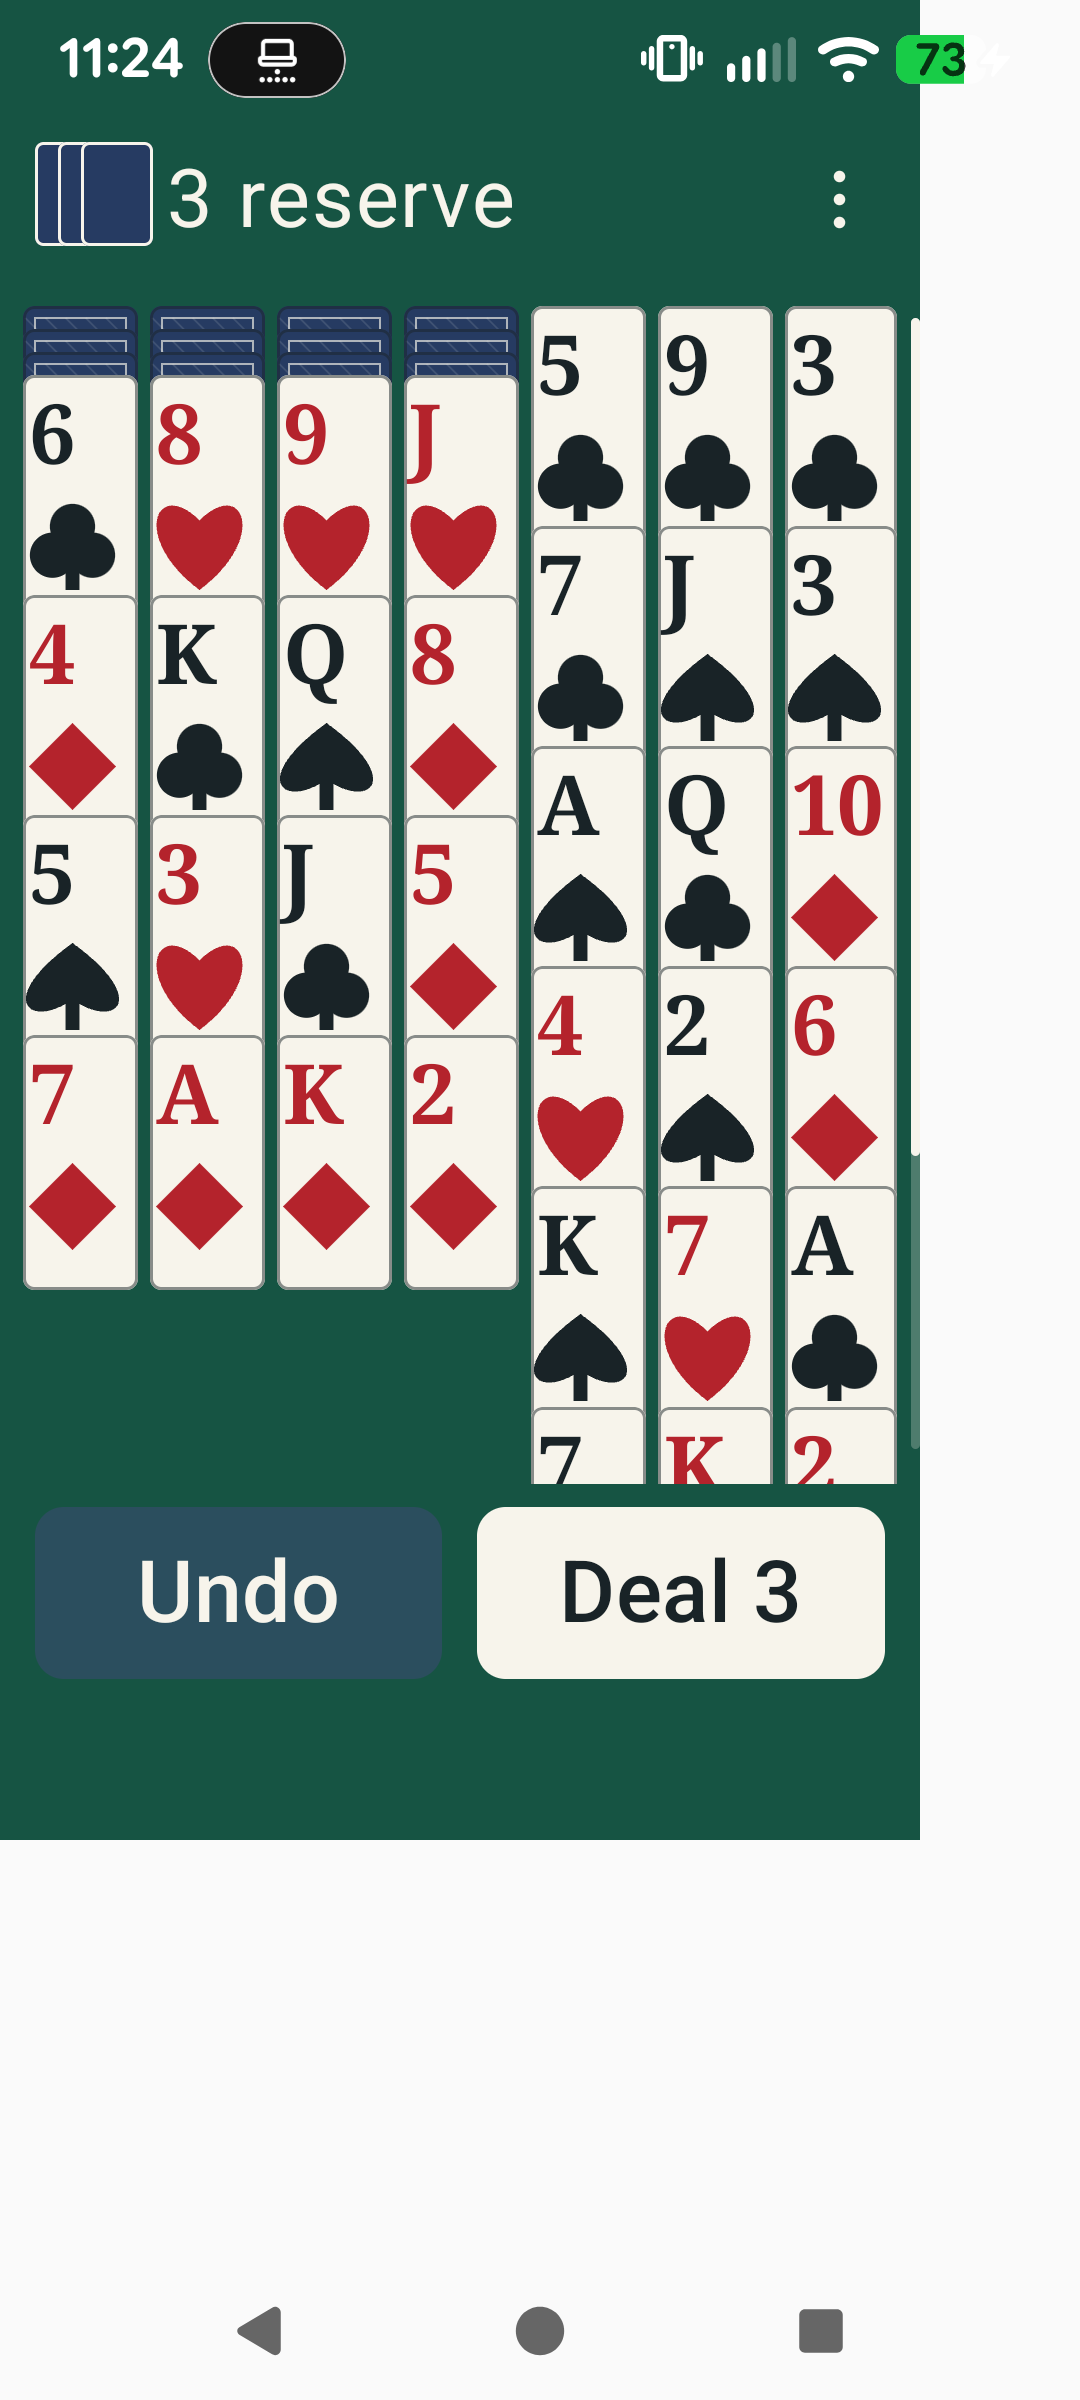
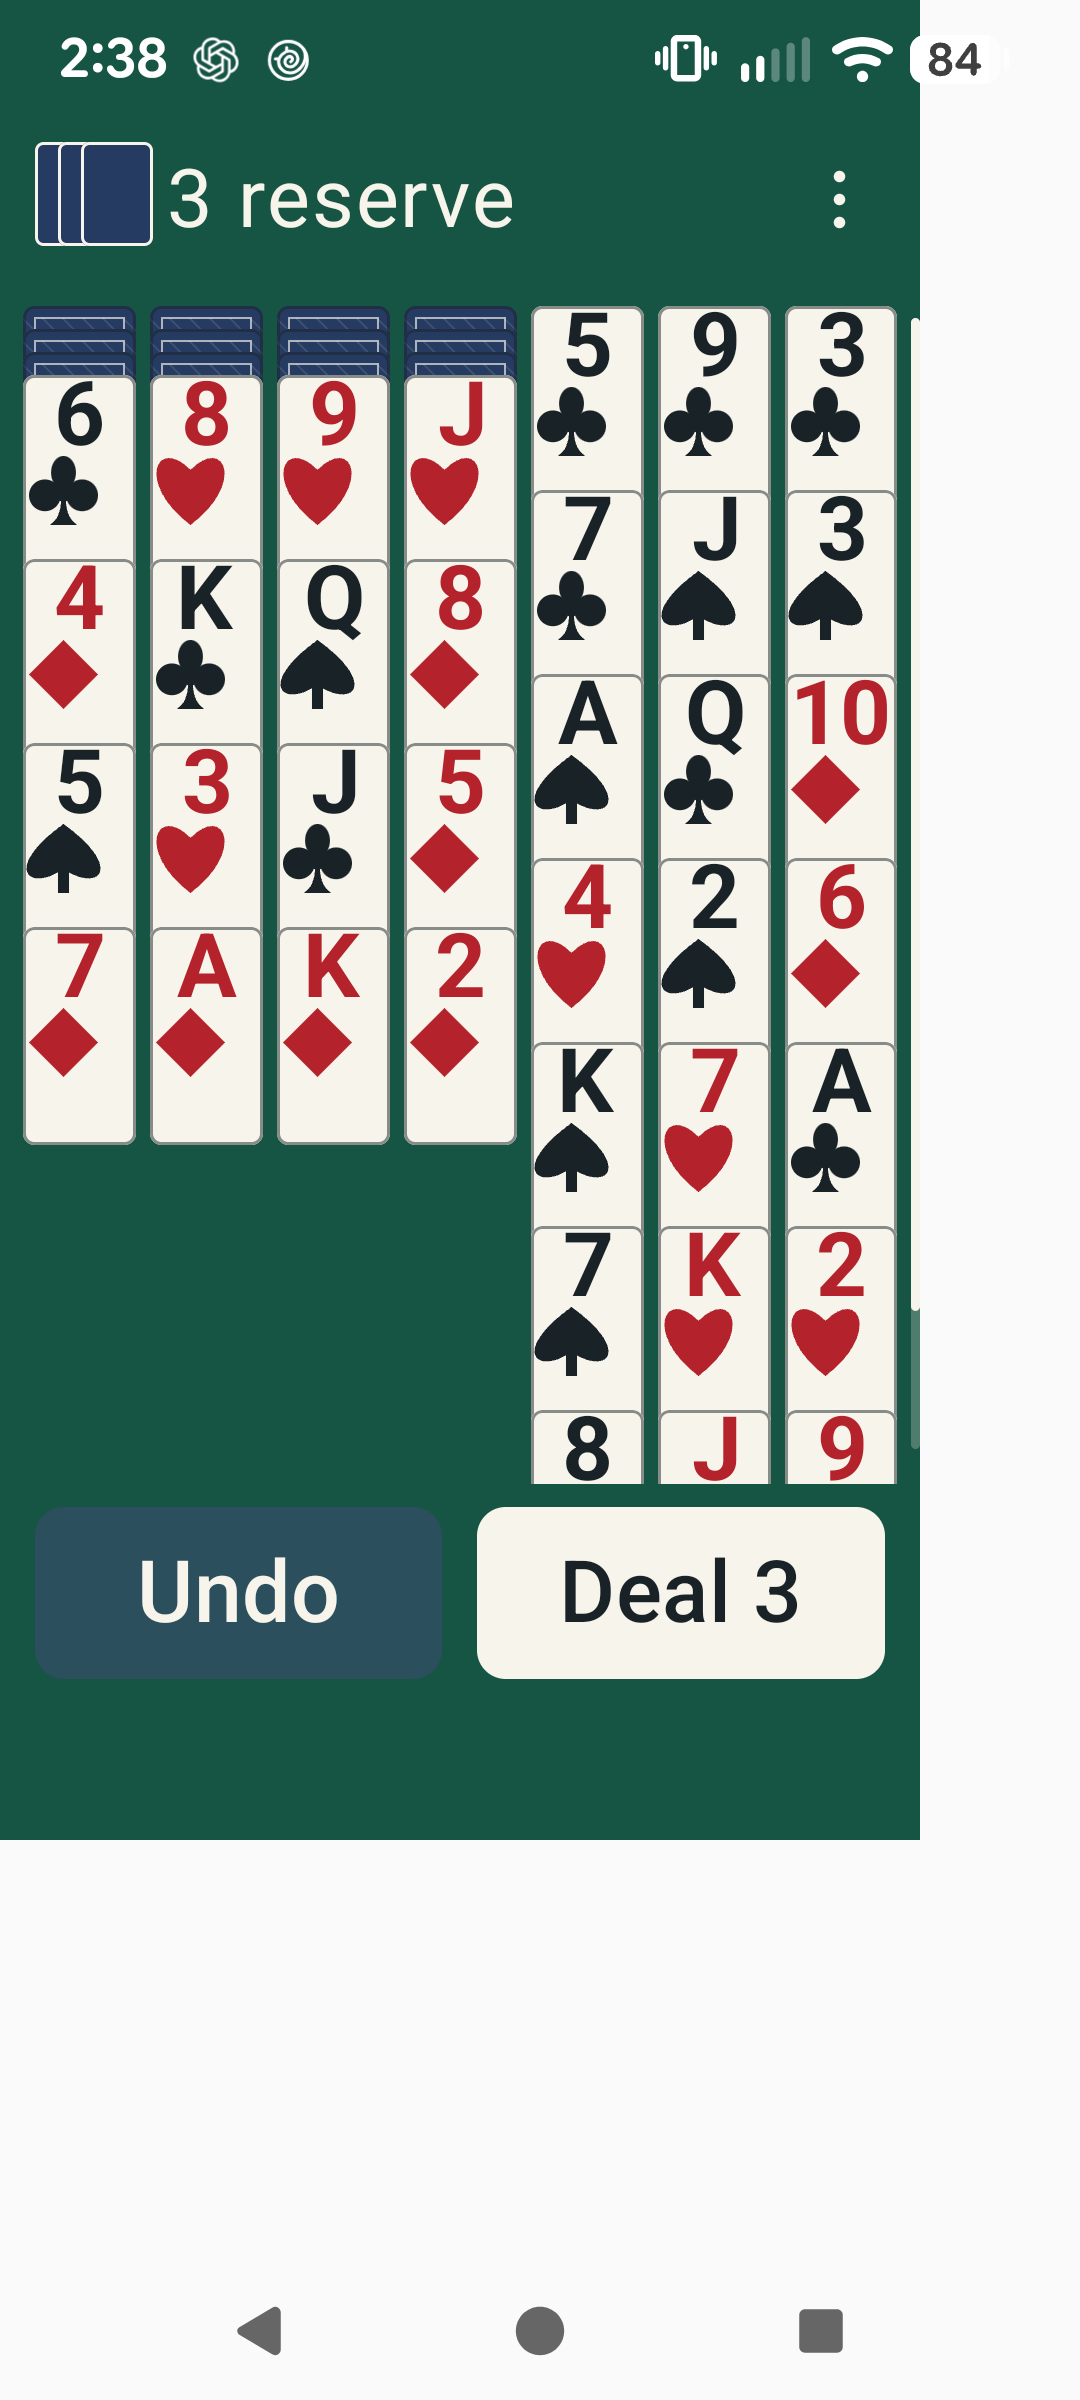
Record verified inverted cards, centered ranks and fresh device evidence

diff --git a/docs/phase4d-interface.md b/docs/phase4d-interface.md
@@ -57,16 +57,16 @@ Normal selection, illegal-tap cancellation and success feedback have a polite li
 
 ## Verified implementation and test results
 
-Application/test code head **`b34eb2cb985c1e5c8b1403ecdac033025c1bd69c`** passed [CI run 41331064722](https://github.com/FoxyLight/Wasp-Solitaire/actions/runs/41331064722):
+Application/test code head **`dd7f98c2a74fe02a1abdf74b940d1d5e96fe8719`** compiled and passed JVM validation in [CI run 41347628565](https://github.com/FoxyLight/Wasp-Solitaire/actions/runs/41347628565):
 
 | Check | Actual result and evidence |
 | --- | --- |
-| [verify](https://github.com/FoxyLight/Wasp-Solitaire/actions/runs/41331064722/job/124921076469) | Android application/test APKs compiled; downloaded JUnit XML: **41 tests, zero failures/errors/skips** (17 pure engine, 24 application JVM). |
-| [emulator](https://github.com/FoxyLight/Wasp-Solitaire/actions/runs/41331064722/job/124921467375) | Android 15 / API 35, x86_64 AVD `test`, system animations disabled: **23 tests, zero failures/errors/skips**, 57.009 seconds in downloaded JUnit XML. |
-| Pixel 7a instrumentation | Installed the matched app/test APK pair from that verify artifact. Android 17 / API 37, physical 1080×2400px, density override 460, default font scale 1.3: **OK (23 tests)** in **71.236 seconds**. Actual rotation and recreation included. |
-| Owner-assisted TalkBack | On the same Pixel with build `270f09689faa4ec7f8044e062aea1c4832aa0988`, the owner confirmed all four checks worked and announcements were clear: card identity/column/tail count, legal movement, illegal-tap cancellation without movement, and Undo. The agent observed service binding/focus but does not claim to have heard the speaker. Subsequent changes prevent stale cancellation notices and enlarge/reposition visual indices and compact spacing; labels and action semantics are unchanged. The full custom-action/keyboard suite passed again on the corner-index refinement; the owner speech check was not repeated. |
+| [verify](https://github.com/FoxyLight/Wasp-Solitaire/actions/runs/41347628565/job/124970750024) | Android application/test APKs compiled; downloaded JUnit XML: **41 tests, zero failures/errors/skips** (17 pure engine, 24 application JVM). |
+| [emulator](https://github.com/FoxyLight/Wasp-Solitaire/actions/runs/41347628565/job/124971076589) | Android 15 / API 35, x86_64 AVD `test`, system animations disabled: **23 tests, zero failures/errors/skips**, 70.438 seconds in downloaded JUnit XML. |
+| Pixel 7a instrumentation | Installed the matched app/test APK pair from that verify artifact. Android 17 / API 37, physical 1080×2400px, density override 460, default font scale 1.3: **OK (23 tests)** in **69.794 seconds**. Actual rotation and recreation included. |
+| Owner-assisted TalkBack | On the same Pixel with build `270f09689faa4ec7f8044e062aea1c4832aa0988`, the owner confirmed all four checks worked and announcements were clear: card identity/column/tail count, legal movement, illegal-tap cancellation without movement, and Undo. The agent observed service binding/focus but does not claim to have heard the speaker. Subsequent changes include inverted destinations and optically centered ranks. Current semantics add “Legal destination” to the bottom target card while retaining rank/column/tail counts. The full native action/keyboard suite and explicit bottom-card/cancellation semantics assertions passed again; the owner speech check was not repeated for this new phrase. |
 
[2 lines of base64/hex data omitted]
 
 The final evidence/report commit changes documentation only. Its exact PR head and **both required CI job results on that head** are recorded in [PR #22](https://github.com/FoxyLight/Wasp-Solitaire/pull/22); do not infer a final-head pass from the earlier code-head run above. The workstation has no configured Android SDK, so no local Android build pass is claimed. Builds ran in CI; matched APKs ran on the real device.
 
@@ -89,11 +89,11 @@ Visual review found and corrected undersized controls in inset-heavy short windo
 
 ## Actual screenshot evidence and before/after review
 
-All seven application images below are unmodified native Pixel captures and were visually inspected. Selected-tail and victory images are from the destination-outline refinement `b011287`; the remaining five are from the earlier fully tested corner-index build `b34eb2c`. The latter predate removal of empty outlines (visible behind the restart dialog); consult the current victory capture for empty-slot appearance. The portrait selected example uses seed 123: **8♦ + 5♦ + 2♦**, legal onto Column 7's **9♦**. The moved image shows that whole group in the destination. The landscape image is an actual rotated Activity (2400×1080px), not a size override. Large-text/tablet captures use Compose configuration overrides on the Pixel; white letterboxing outside the forced app window is the test harness, not wasted application space. CI provides separate emulator captures in its board-rendering-evidence artifact.
+All seven application images below are unmodified native Pixel captures from the tested inversion/typography head `dd7f98c`, and were visually inspected. The portrait selected example uses seed 123: **8♦ + 5♦ + 2♦**, legal onto Column 7's **9♦**. The moved image shows that whole group in the destination. The landscape image is an actual rotated Activity (2400×1080px), not a size override. Large-text/tablet captures use Compose configuration overrides on the Pixel; white letterboxing outside the forced app window is the test harness, not wasted application space. CI provides separate emulator captures in its board-rendering-evidence artifact.
 
 | Earlier Phase 4C | Phase 4D actual result | Review finding |
 | --- | --- | --- |
-| [Crowded top controls/instructions](evidence/phase4c/drag-whole-tail.png) | [Selected tail](evidence/phase4d/selected-tail.png), [committed group](evidence/phase4d/whole-tail-moved.png) | No title/teaching block/Hint/Inspect/progress clutter; complete group boundary and explicit marked target; success has no false cancellation message. Fixtures differ; no task-time or pixel-equivalence claim. |
+| [Crowded top controls/instructions](evidence/phase4c/drag-whole-tail.png) | [Selected tail](evidence/phase4d/selected-tail.png), [committed group](evidence/phase4d/whole-tail-moved.png) | No title/teaching block/Hint/Inspect/progress clutter; complete group boundary and inverted bottom destination card; success has no false cancellation message. Fixtures differ; no task-time or pixel-equivalence claim. |
 | [Short landscape](evidence/phase4c/interactive-landscape.png) | [Real Pixel rotation](evidence/phase4d/physical-landscape.png) | Readable width-driven cards, safe right-side controls and scroll margin; lower cards remain scrollable. Different physical/window configurations are labeled, not treated as identical screenshots. |
 | [Large text](evidence/phase4c/interactive-large-text.png) | [200% text](evidence/phase4d/interactive-large-text.png) | Rank/suit stack without suppressing system scale; persistent complete play labels; scrolling rather than unreadably small ranks. Capture framing differs (old root capture versus new native viewport). |
 | Phase 4C adaptive-board baseline | [Tablet-width override](evidence/phase4d/interactive-tablet.png) | Seven centered columns, readable cards and controls; no inspector pane because owner removed that feature. |
@@ -103,7 +103,9 @@ All seven application images below are unmodified native Pixel captures and were
 
 ### Contrast and motion
 
-[Rendered palette and sRGB contrast check](evidence/phase4d/contrast-check.json) from the earlier `dec32f8` build samples actual Pixel pixels (palette colors are unchanged by the corner-index refinement) and verifies the intended fill colors are present. Black/ivory **14.56:1**, red/ivory **5.93:1**, table text/green **8.01:1**, Undo text/blue **10.13:1**, disabled Undo text/rendered background **9.33:1**, selected dark inner boundary/ivory **11.15:1**. Gold/ivory alone is **1.25:1** and is supplementary to the dark edge, shape and native selected semantics. This is fill-pair validation and visual review, not a blanket accessibility certification. Native Material feedback remains system-aware; no custom transition requires motion, and the full CI suite runs with system animations disabled.
+[Current inverted-card palette check](evidence/phase4d/inverted-contrast-check.json) confirms the actual dark face `#080B14` and light teal red-suit ink `#4BDCD3` in the Pixel selected screenshot: **11.68:1**. Inverted black ink `#E6DCD8` against that face calculates **14.60:1**; that latter pair is a palette calculation, not a sampled black-destination screenshot. Normal rank contrast remains 14.56:1 (black) and 5.93:1 (red). Only the legal target card changes luminance, with native legal-destination semantics/actions and retained card identity.
+
+[Rendered palette and sRGB contrast check](evidence/phase4d/contrast-check.json) from the earlier `dec32f8` build samples actual Pixel pixels (base palette colors remain unchanged; the new inverted pairs are checked separately above) and verifies the intended fill colors are present. Black/ivory **14.56:1**, red/ivory **5.93:1**, table text/green **8.01:1**, Undo text/blue **10.13:1**, disabled Undo text/rendered background **9.33:1**, selected dark inner boundary/ivory **11.15:1**. Gold/ivory alone is **1.25:1** and is supplementary to the dark edge, shape and native selected semantics. This is fill-pair validation and visual review, not a blanket accessibility certification. Native Material feedback remains system-aware; no custom transition requires motion, and the full CI suite runs with system animations disabled.
 
 ## Remaining usability limits
 
